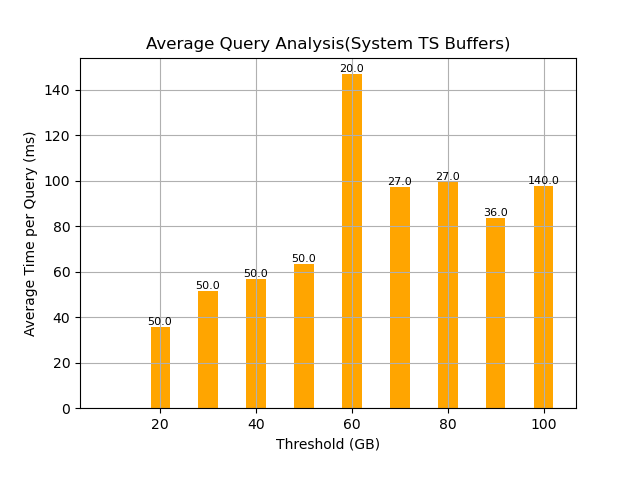
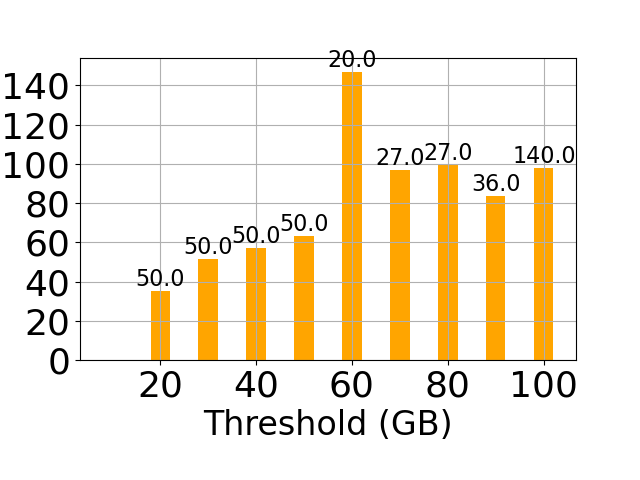
Increase fontsize in figures

diff --git a/src/evaluation.tex b/src/evaluation.tex
@@ -528,15 +528,15 @@ increasing computational effort and response times.
 	\centering
 	\begin{subfigure}[c]{0.45\textwidth}
 		\includegraphics[width=1\textwidth]   {figures/Experiments/Dynamic/Delays/index_construction_all.png}
-		\caption{Real Index Construction Time}
+		\caption{Index Construction Time}
 		\label{fig:actual-index-Construction-time}
 	\end{subfigure}
 	\begin{subfigure}[c]{0.45\textwidth}
 		\includegraphics[width=1\textwidth]   {figures/Experiments/Dynamic/Delays/qa_delay_x_axis.png}
-		\caption{Real Query Answering Time}
+		\caption{Query Answering Time}
 		\label{fig:actual-query-answering-time}
 	\end{subfigure}
-	\caption{Dynamic FreSh Benchmarks}
+	\caption{Dynamic FreSh Benchmarks - Random 100GB/450Q}
 	\label{fig:dfresh-fresh-random}
 \end{figure*}
 
@@ -609,7 +609,7 @@ increasing computational effort and response times.
 		\caption{Delay 7 sec}
 		\label{fig:query-answering-breakdown-7}
 	\end{subfigure}
-	\caption{Query Answering Breakdown}
+	\caption{Query Answering Breakdown - Random 100GB/450Q}
 	\label{query-answering-breakdown-random}
 \end{figure*}
 
